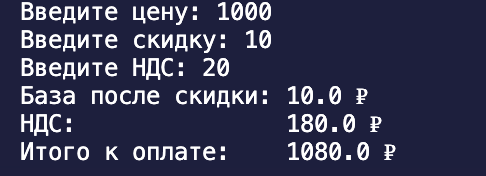
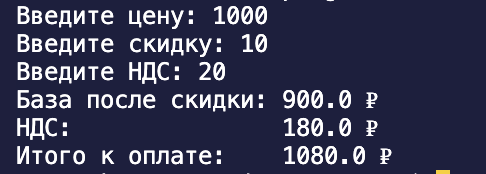
222

Changed region(s): [[0.0309, 0.0, 0.8333, 0.9483], [0.4938, 0.1724, 0.5556, 0.3161], [0.8951, 0.977, 0.9259, 1.0]]

diff --git a/scr/lab01/e03_discount_vat.py b/scr/lab01/e03_discount_vat.py
@@ -2,6 +2,6 @@ price = float(input('Введите цену: '))
 sale = float(input('Введите скидку: '))
 vat =  float(input('Введите НДС: '))
 base = price * (1 - sale/100)
-print(f"""База после скидки: {sale} ₽
+print(f"""База после скидки: {base} ₽
 НДС:               {base * (vat/100)} ₽
 Итого к оплате:    {base * (vat/100) + base} ₽""")
